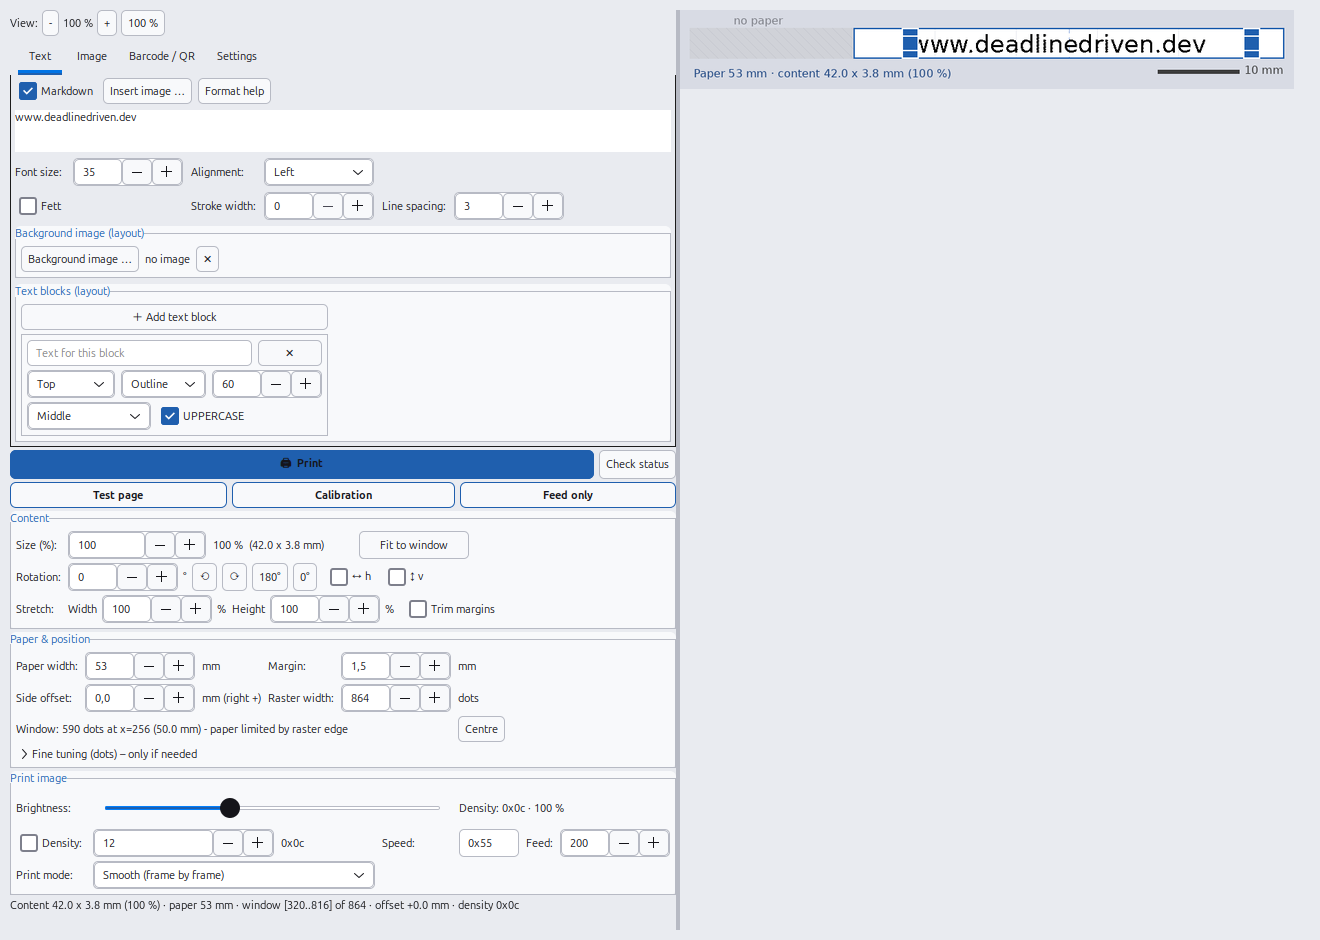
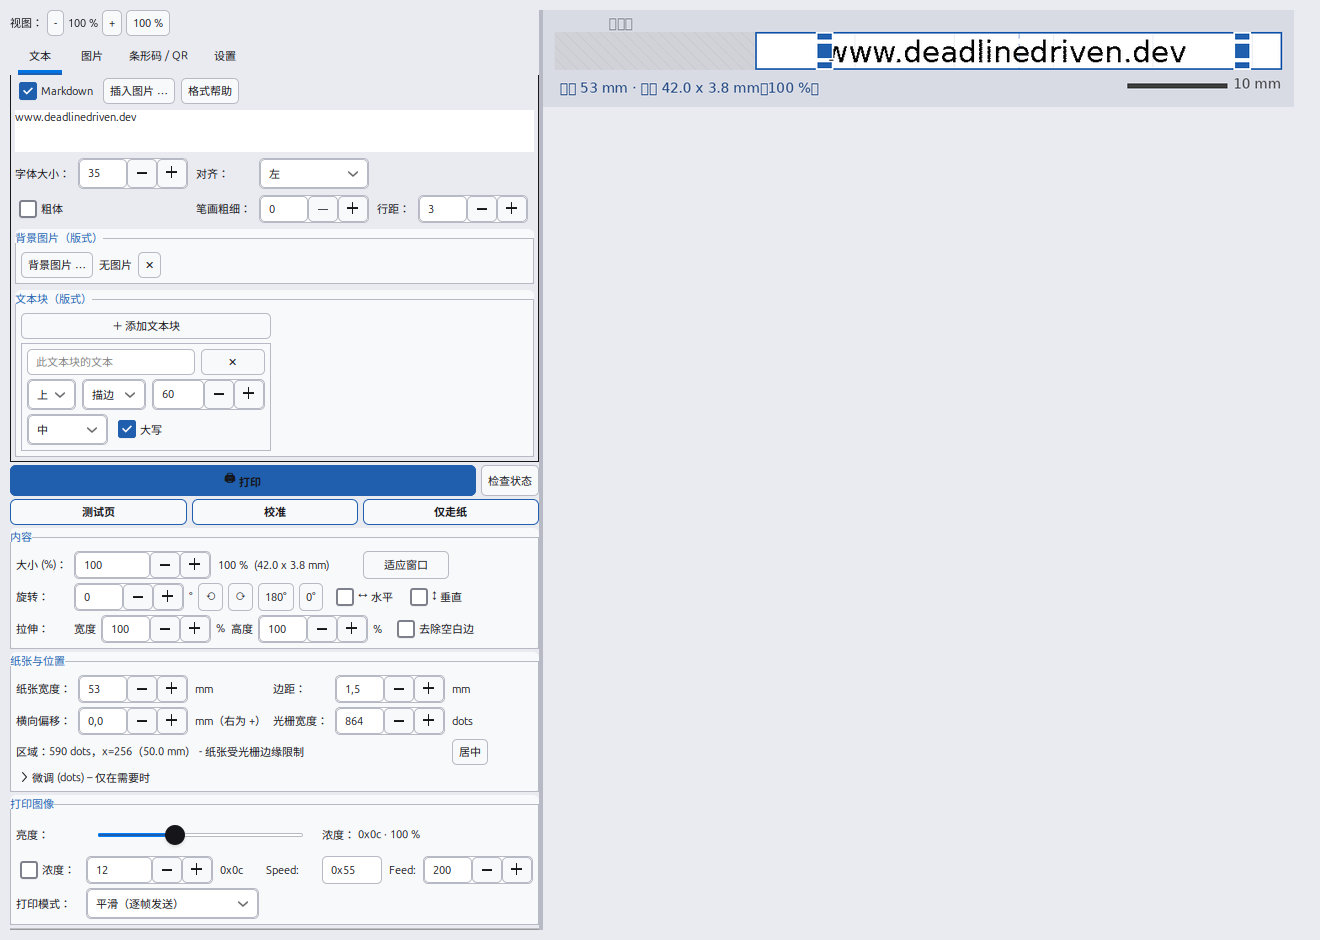
Docs: screenshots of the image tab (EN/DE/JA/ZH)
The READMEs now show both views of the desktop application: the text tab
(with the website www.deadlinedriven.dev, same content as the QR preset) and
the image tab (threshold, dithering, invert, rotation, stretch, trim) with
the dithered preview of the example picture that ships with the project
(assets/sample.jpg).  docs/README.md and the German structure list link the
new files as well.

Screenshots were taken from the running program itself (GTK window capture)
with a temporary configuration, so the user's own settings stay untouched.

Changed region(s): [[0.0, 0.0, 0.9939, 1.0], [0.0, 0.0, 0.2174, 0.1234]]

diff --git a/README.md b/README.md
@@ -24,6 +24,15 @@ Website of the project: **[www.deadlinedriven.dev](https://www.deadlinedriven.de
 *The desktop application: controls on the left, millimetre-accurate live preview on the right
 (here with the website `www.deadlinedriven.dev`, the same content the QR code preset prints).*
 
+**Image tab** – photos, logos and vector graphics with threshold, dithering, invert, rotation,
+stretching and trimming; the preview shows the dithered black/white result before printing:
+
+![X3 Thermal Printer – Image tab with threshold, dithering, invert, rotation and stretch for photos](docs/images/gui-image-en.png)
+
+*The image tab with the example picture that ships with the project (`assets/sample.jpg`):
+threshold 190 % and dithering on, exact millimetre measurements, blue handles for dragging
+and scaling – all values are stored and reused for the next print.*
+
 ---
 
 ## Table of contents
@@ -261,12 +270,12 @@ controlled with `--zoom` (CLI) or *Size (%)* (GUI).
   *Settings → Design* or with `./scripts/install-desktop.sh`
 * Everything is stored in `~/.config/x3drucker.json`
 
-| Language | Screenshot |
-|---|---|
-| English | [docs/images/gui-en.png](docs/images/gui-en.png) |
-| Deutsch | [docs/images/gui-de.png](docs/images/gui-de.png) |
-| 日本語 | [docs/images/gui-ja.png](docs/images/gui-ja.png) |
-| 中文 | [docs/images/gui-zh.png](docs/images/gui-zh.png) |
+| Language | Text tab | Image tab |
+|---|---|---|
+| English | [gui-en.png](docs/images/gui-en.png) | [gui-image-en.png](docs/images/gui-image-en.png) |
+| Deutsch | [gui-de.png](docs/images/gui-de.png) | [gui-image-de.png](docs/images/gui-image-de.png) |
+| 日本語 | [gui-ja.png](docs/images/gui-ja.png) | [gui-image-ja.png](docs/images/gui-image-ja.png) |
+| 中文 | [gui-zh.png](docs/images/gui-zh.png) | [gui-image-zh.png](docs/images/gui-image-zh.png) |
 
 The GUI and the CUPS queue use the same settings – what you see in the preview is what the
 `X3Thermo` printer sends. See [日本語](README.ja.md) / [中文](README.zh.md) for the

diff --git a/README.de.md b/README.de.md
@@ -25,6 +25,16 @@ Projekt-Webseite: **[www.deadlinedriven.dev](https://www.deadlinedriven.dev)**
 Live-Vorschau (hier mit der Webseite `www.deadlinedriven.dev` – derselbe Inhalt,
 den auch die QR-Vorlage druckt).*
 
+**Reiter „Bild“** – Fotos, Logos und Vektorgrafiken mit Schwelle, Dithering, Invertieren,
+Drehen, Strecken und Zuschneiden; die Vorschau zeigt das gerasterte Schwarz/Weiß-Ergebnis
+schon vor dem Drucken:
+
+![X3 Thermodrucker – Reiter Bild mit Schwelle, Dithering, Drehen und Strecken für Fotos](docs/images/gui-image-de.png)
+
+*Der Reiter „Bild“ mit dem mitgelieferten Beispielbild (`assets/sample.jpg`): Schwelle 190 %,
+Dithering an, alle Maße in mm, blaue Griffe zum Ziehen und Skalieren – alle Werte werden
+gespeichert und beim nächsten Druck wieder verwendet.*
+
 > Diese Datei ist die **deutsche** Fassung. Die **englische Hauptfassung** steht in
 > [`README.md`](README.md), außerdem gibt es [日本語](README.ja.md) und [中文](README.zh.md).
 
@@ -716,7 +726,8 @@ docs/
   README.md           Technische Doku (englisch): Aufbau, Protokoll, API
   diagrams/           PlantUML-Diagramme: README.md (Index), *.puml (Quellen),
                       *.svg / *.png (Bilder), build.sh (neu rendern)
-  images/             Screenshots der Oberfläche (gui-en/de/ja/zh.png)
+  images/             Screenshots der Oberfläche (gui-en/de/ja/zh.png
+                      = Reiter Text, gui-image-*.png = Reiter Bild)
 tests/test_smoke.py   Selbsttests ohne Drucker (Rendering, Frames, ESC/POS)
 INSTALL.md            Installationsanleitung (Schritt für Schritt)
 requirements.txt      Python-Abhängigkeiten (Pillow; qrcode optional)

diff --git a/README.ja.md b/README.ja.md
@@ -19,6 +19,17 @@
 
 ![X3 サーマルプリンター – デスクトップアプリ（日本語インターフェース、ライブプレビュー付き）](docs/images/gui-ja.png)
 
+*デスクトップアプリ：左側に操作項目、右側にミリ単位のライブプレビュー
+（ここではウェブサイト `www.deadlinedriven.dev` を表示。QR コードの初期値と同じ内容です）。*
+
+**「画像」タブ** – 写真・ロゴ・ベクター画像をしきい値・ディザリング・反転・回転・
+引き伸ばし・余白の切り取りで調整できます。プレビューは印刷前に白黒の結果を表示します：
+
+![X3 サーマルプリンター – 画像タブ（しきい値・ディザリング・反転・回転・引き伸ばし）](docs/images/gui-image-ja.png)
+
+*「画像」タブと同梱のサンプル画像（`assets/sample.jpg`）：しきい値 190 %、ディザリング有効、
+mm 単位の寸法、青いハンドルでドラッグ／拡大縮小。設定は保存され次の印刷にも使われます。*
+
 ---
 
 ## 主な機能

diff --git a/README.zh.md b/README.zh.md
@@ -18,6 +18,17 @@
 
 ![X3 热敏打印机 – 桌面程序（中文界面，带实时预览）](docs/images/gui-zh.png)
 
+*桌面程序：左侧是操作项，右侧是精确到毫米的实时预览
+（此处显示网站 `www.deadlinedriven.dev`，与二维码预设内容相同）。*
+
+**「图片」选项卡** – 用阈值、抖动、反色、旋转、拉伸与裁边处理照片、标识和矢量图；
+预览会先显示黑白处理后的结果：
+
+![X3 热敏打印机 – 图片选项卡：阈值、抖动、反色、旋转与拉伸](docs/images/gui-image-zh.png)
+
+*「图片」选项卡与项目自带的示例图片（`assets/sample.jpg`）：阈值 190 %、启用抖动、
+毫米级尺寸标注、可用蓝色手柄拖动和缩放——所有设置都会保存并在下次打印时继续使用。*
+
 ---
 
 ## 功能

diff --git a/docs/README.md b/docs/README.md
@@ -12,7 +12,7 @@ project root: [`../README.md`](../README.md) (English, main),
 | install and print right away | [`../INSTALL.md`](../INSTALL.md), [`../README.md`](../README.md) |
 | understand how the program is built | this file |
 | see the structure as a picture | [`diagrams/README.md`](diagrams/README.md) |
-| see the user interface | [`images/gui-en.png`](images/gui-en.png) |
+| see the user interface | [`images/gui-en.png`](images/gui-en.png) (text tab), [`images/gui-image-en.png`](images/gui-image-en.png) (image tab) |
 | change or verify something | `python3 ../tests/test_smoke.py` |
 
 ---
